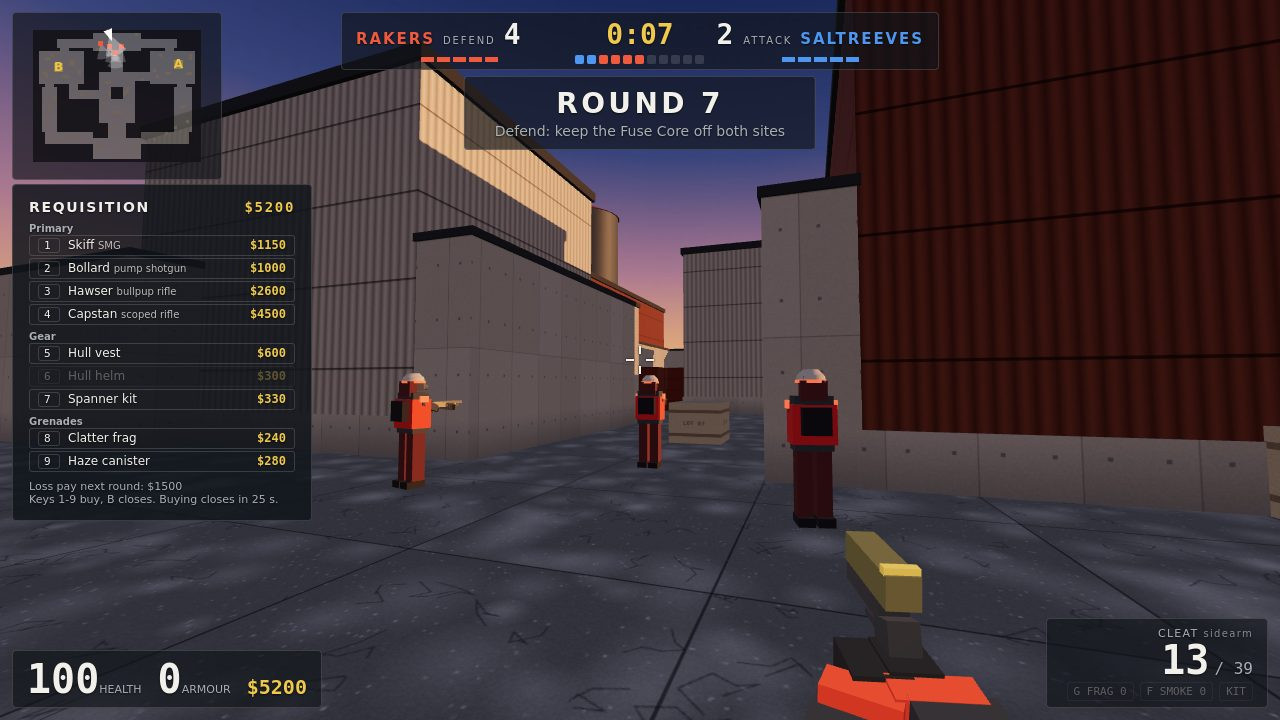
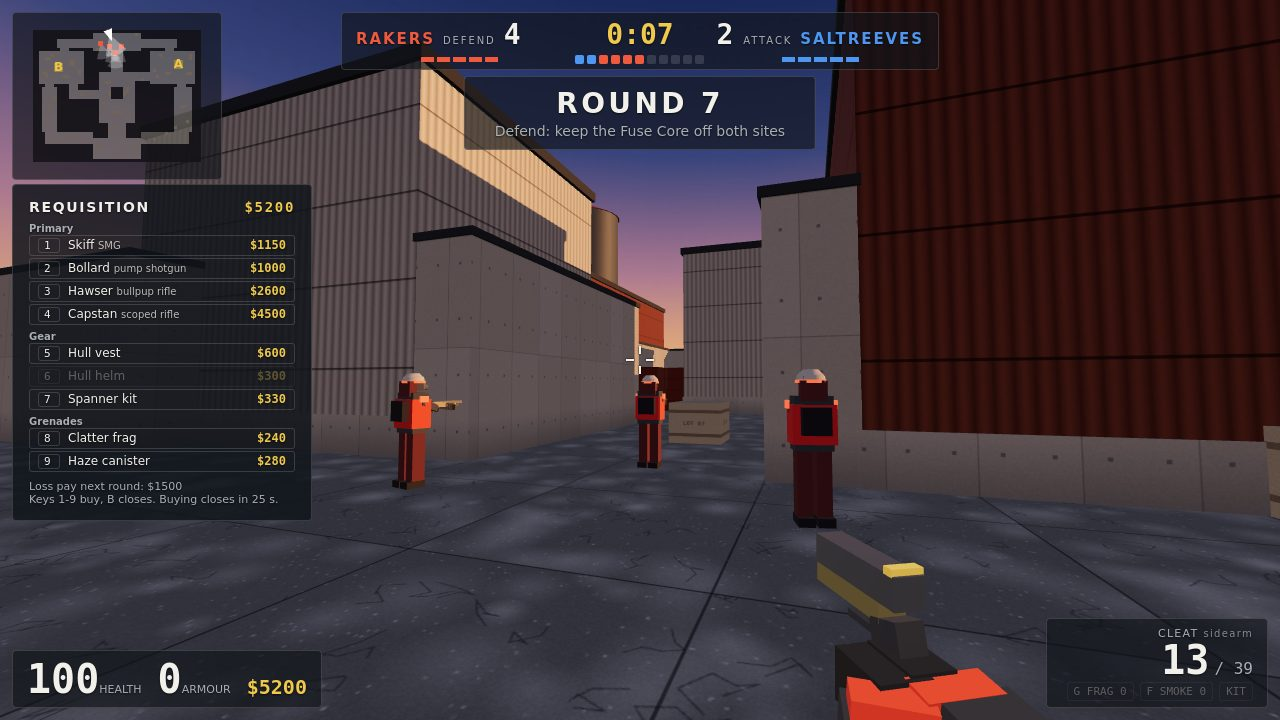
Pistol reads as a pistol: gunmetal slide down-range, turned to show its length; NOTES current
The Cleat looked like a gold brick on end: its slide is now gunmetal over an olive frame and the
gun is turned so the slide's length shows. NOTES: done items, budget, next. Fresh screenshots.

Changed region(s): [[0.625, 0.9167, 0.7812, 1.0], [0.625, 0.7333, 0.7188, 0.8556]]

diff --git a/game/src/render/viewmodel.js b/game/src/render/viewmodel.js
@@ -25,7 +25,7 @@ export function build(parts, mats = MATS, group = new THREE.Group()) {
 
 // Grip at the origin, barrel along -z; muzzle [y, z] m; hand: support hand z (0: two-handed pistol).
 export const GUNS = {
-  cleat: { muzzle: [0.08, -0.2], hand: 0, parts: 'b 5 5 22 0 8 -8,k 4.6 3.6 18 0 4 -10,k 4.6 15 6.5 0 -4 1.5 -25,k 3 1.2 7 0 0 -7,m 2.4 2.4 1 0 8.5 -19.3,p 5.2 1.2 2 0 10.9 1.5' },
+  cleat: { muzzle: [0.08, -0.2], hand: 0, parts: 'm 5 5 22 0 8 -8,b 4.6 3.6 18 0 4 -10,k 4.6 15 6.5 0 -4 1.5 -25,k 3 1.2 7 0 0 -7,m 2.4 2.4 1 0 8.5 -19.3,p 5.2 1.2 2 0 10.9 1.5' },
   skiff: { muzzle: [0.04, -0.43], hand: -0.2, parts: 'b 8 11 34 0 3 -8,k 8.2 3 34 0 -3.5 -8,m 6 6 14 0 4 -31,m 2.8 2.8 6 0 4 -40,k 4.5 20 6 0 -12 -15,k 5 12 6 0 -7 2 -25,m 1.6 1.6 24 3 5 20,m 1.6 1.6 24 -3 5 20,k 8 10 2 0 3 32,k 3 3.5 4 0 10 4,p 8.4 11.4 2.5 0 3 -22' },
   // a bullpup: magazine behind the grip
   hawser: { muzzle: [0.04, -0.64], hand: -0.36, parts: 'e 9 12 54 0 2 3,k 9.4 15 6 0 1 29,k 9.2 4 30 0 9.5 11,b 7.5 8.5 24 0 3.5 -36,m 3 3 12 0 4 -54,m 4.5 4.5 5 0 4 -61,m 3 1.6 44 0 8.8 -20,k 6 6.5 11 0 13 -10,r 1.4 1.4 .5 0 13.5 -4.2,k 5 13 6 0 -8 -2 -25,k 5.5 17 8.5 0 -10 16,p 9.6 12.6 3 0 2 -20' },
@@ -86,7 +86,7 @@ export function createViewModel() {
       (pistol ? -0.165 : -0.14) - Math.abs(Math.cos(bob)) * 0.007 * bobAmt - dip - a.crouch * 0.008 - swayY * 0.18,
       (pistol ? -0.34 : -0.5) + kick * 0.02,
     );
-    current.group.rotation.set((pistol ? 0 : 0.05) + kick * 0.07 - reload * 0.6 + draw * 0.9 - low * 0.5, swayX + (pistol ? 0.1 : 0.08), reload * 0.4);
+    current.group.rotation.set((pistol ? 0 : 0.05) + kick * 0.07 - reload * 0.6 + draw * 0.9 - low * 0.5, swayX + (pistol ? 0.4 : 0.08), reload * 0.4);
     flashTime -= dt;
     flash.visible = flashTime > 0;
     flash.scale.setScalar(0.1 + kick * 0.03);
